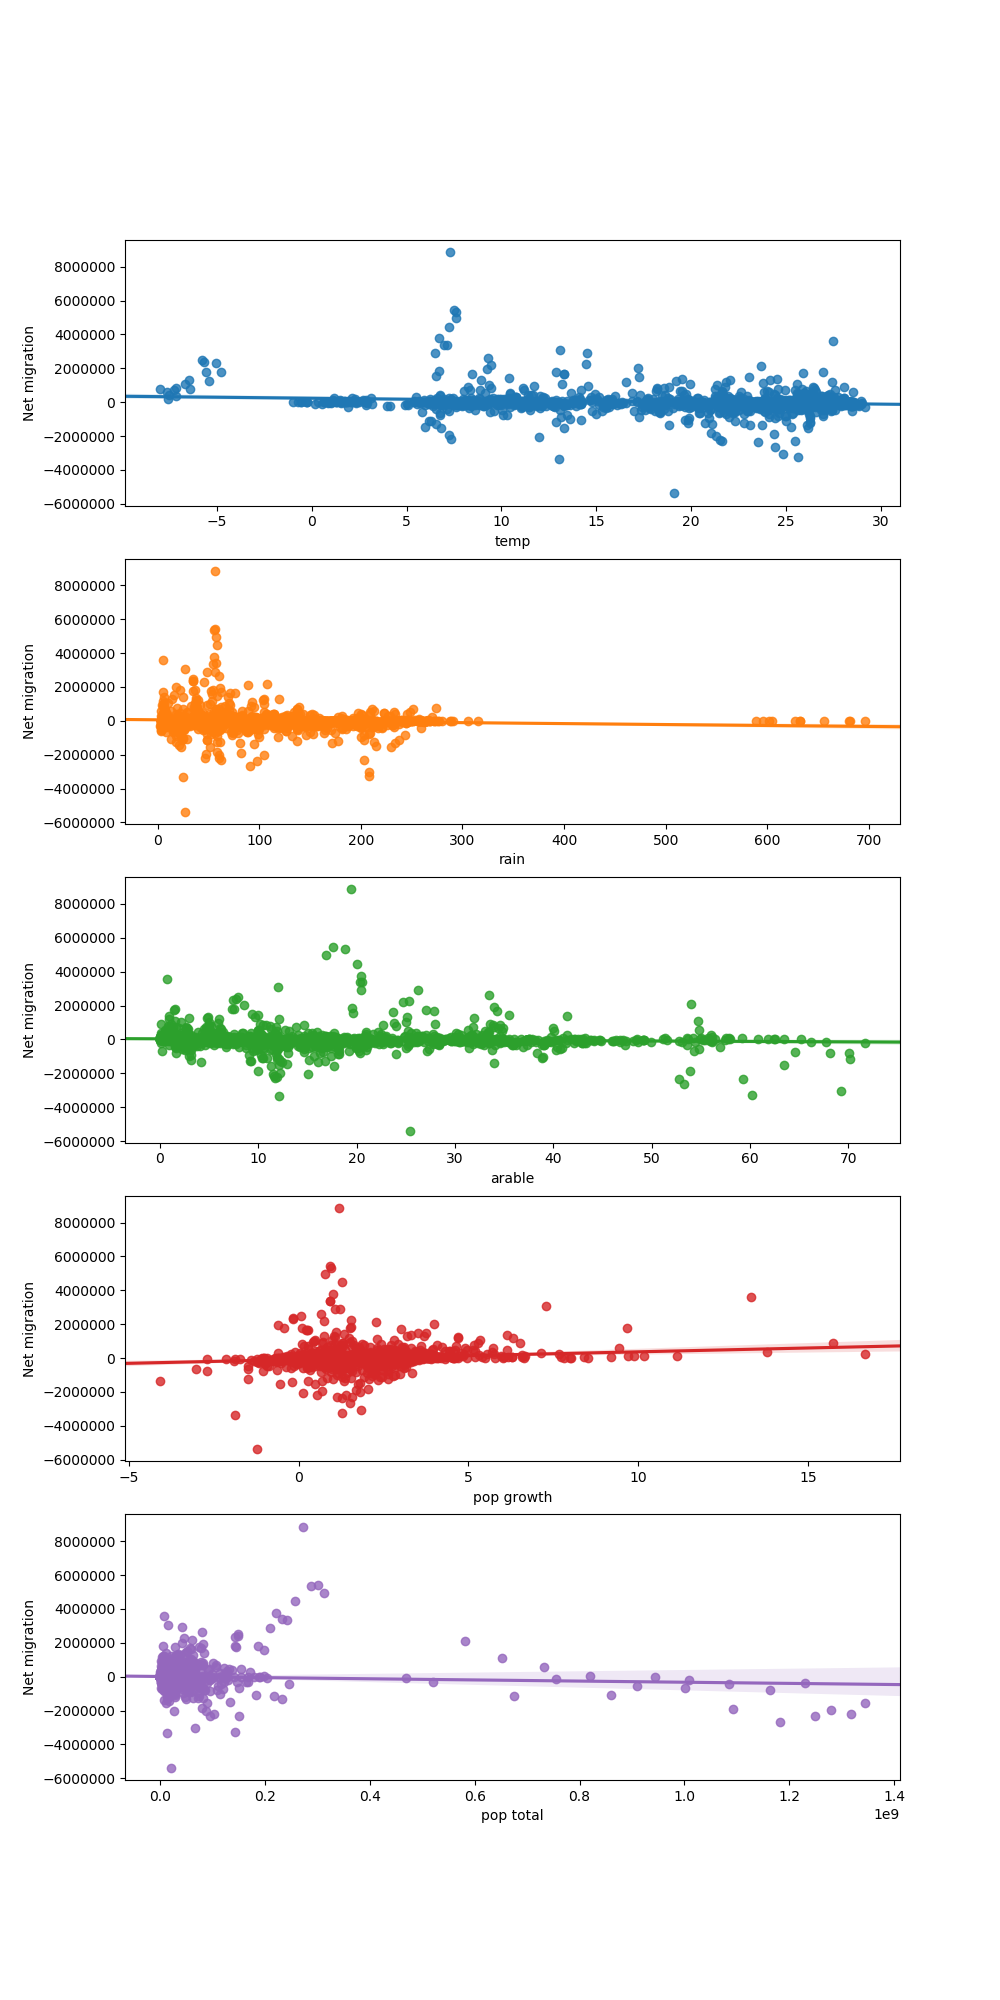
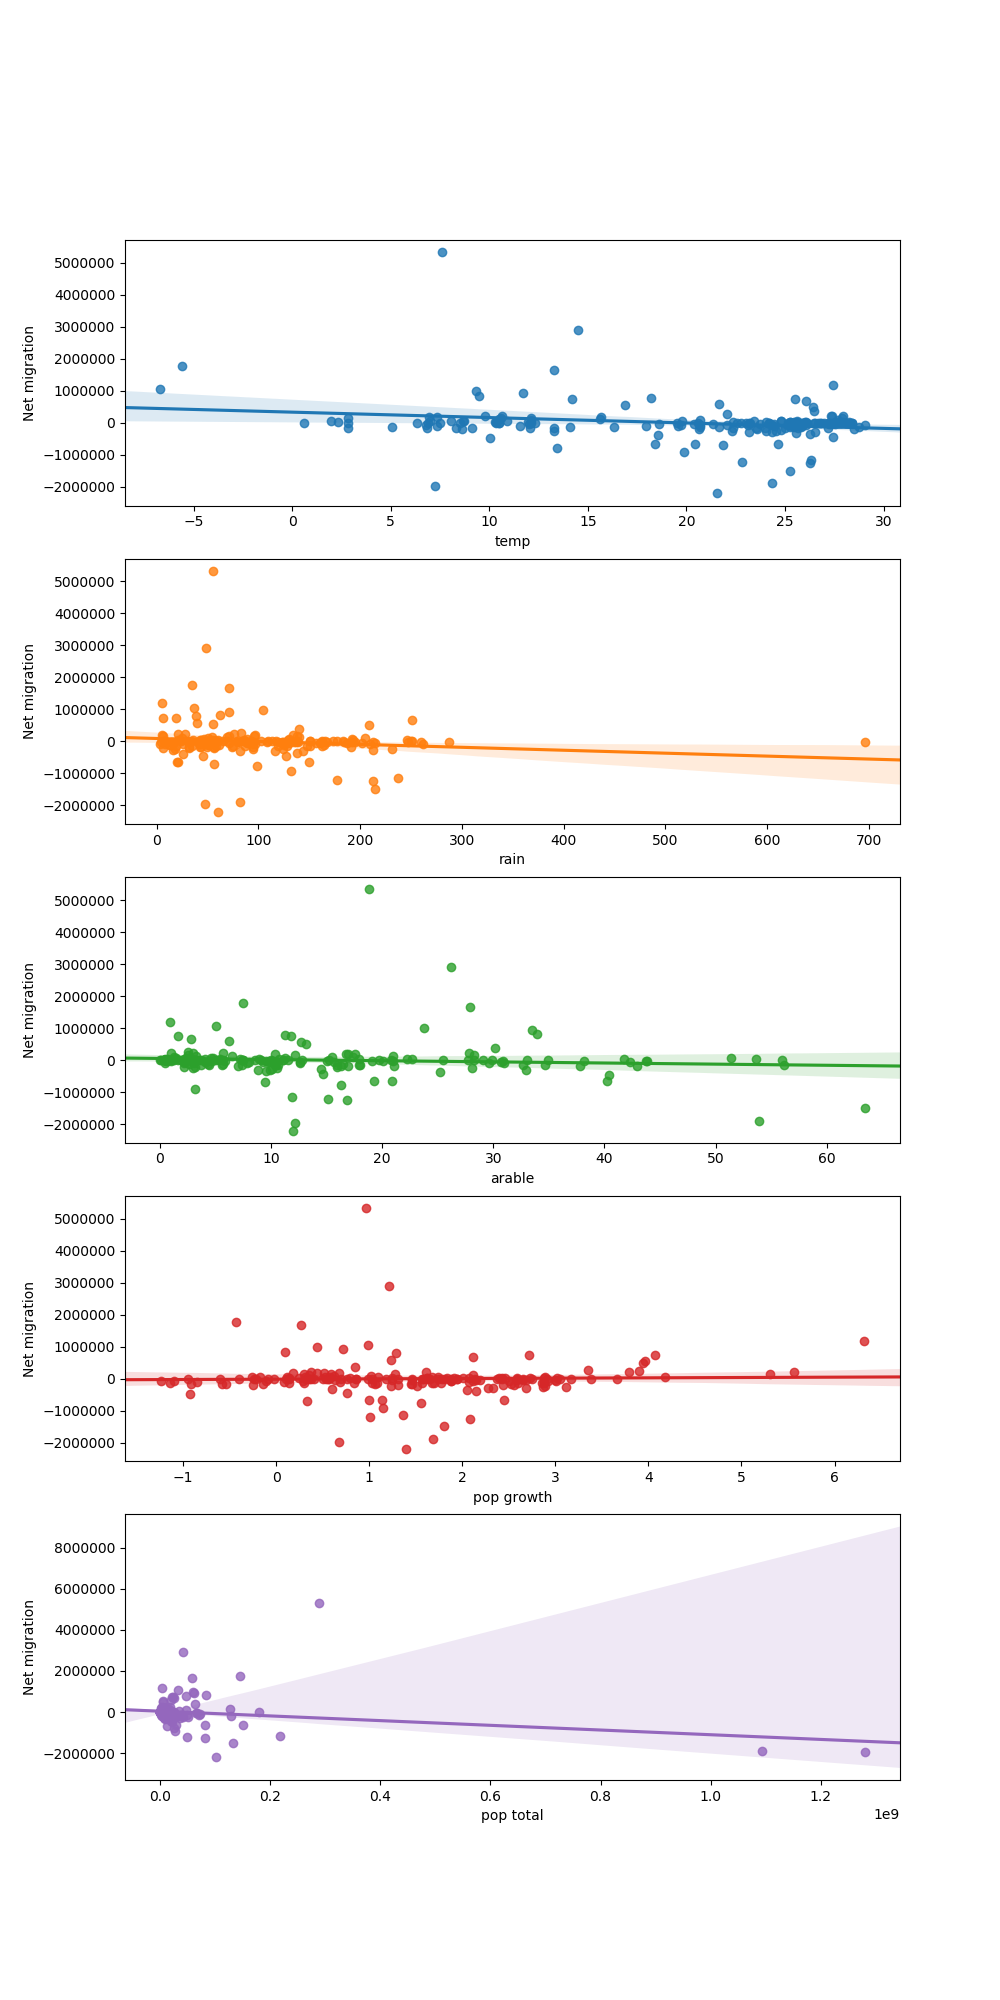
Exploratory
done

diff --git a/exploratory analysis.py b/exploratory analysis.py
@@ -236,5 +236,5 @@ for period in periods:
     fig, ax = plt.subplots(5, figsize=(10, 20))
     for i, ax in enumerate(fig.axes):
         if i < len(df_num_period.columns) - 1:
-            sns.regplot(x=df_num_period.columns[i + 1], y='Net migration', data=df_num, ax=ax)
-            fig.savefig("TrendAllVarvsNetMigr_"+str(period)+".png")
+            sns.regplot(x=df_num_period.columns[i + 1], y='Net migration', data=df_num_period, ax=ax)
+        fig.savefig("TrendAllVarvsNetMigr_"+str(period)+".png")
